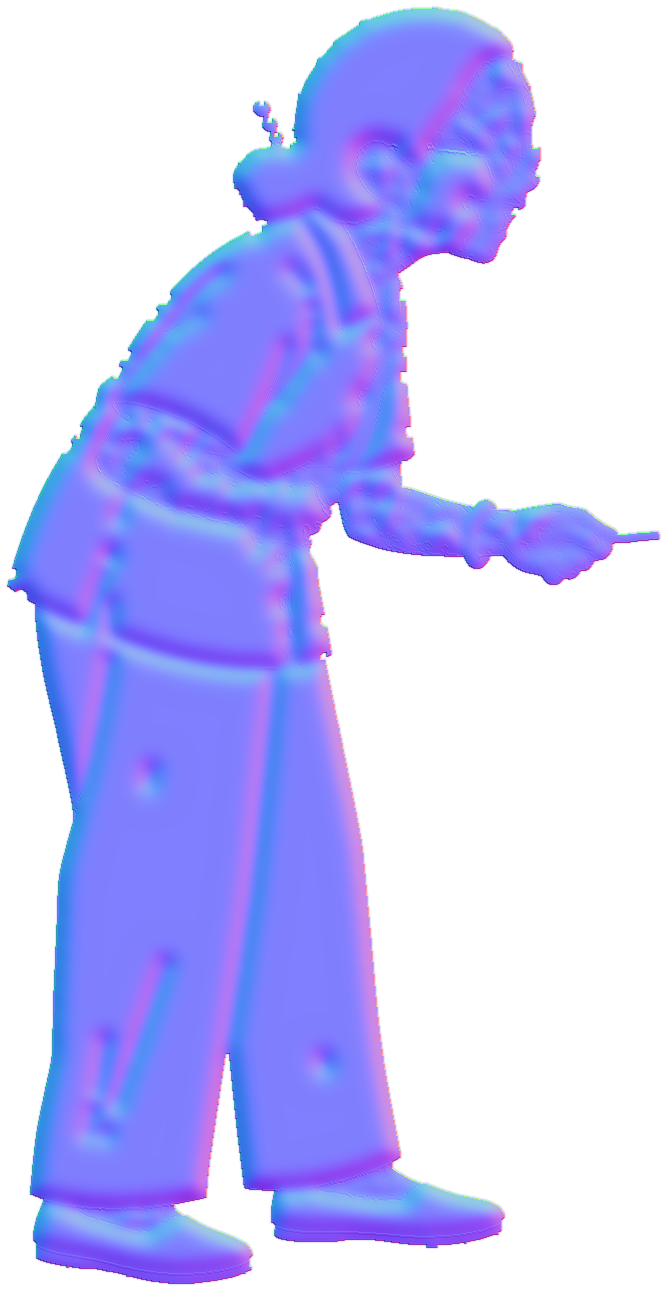
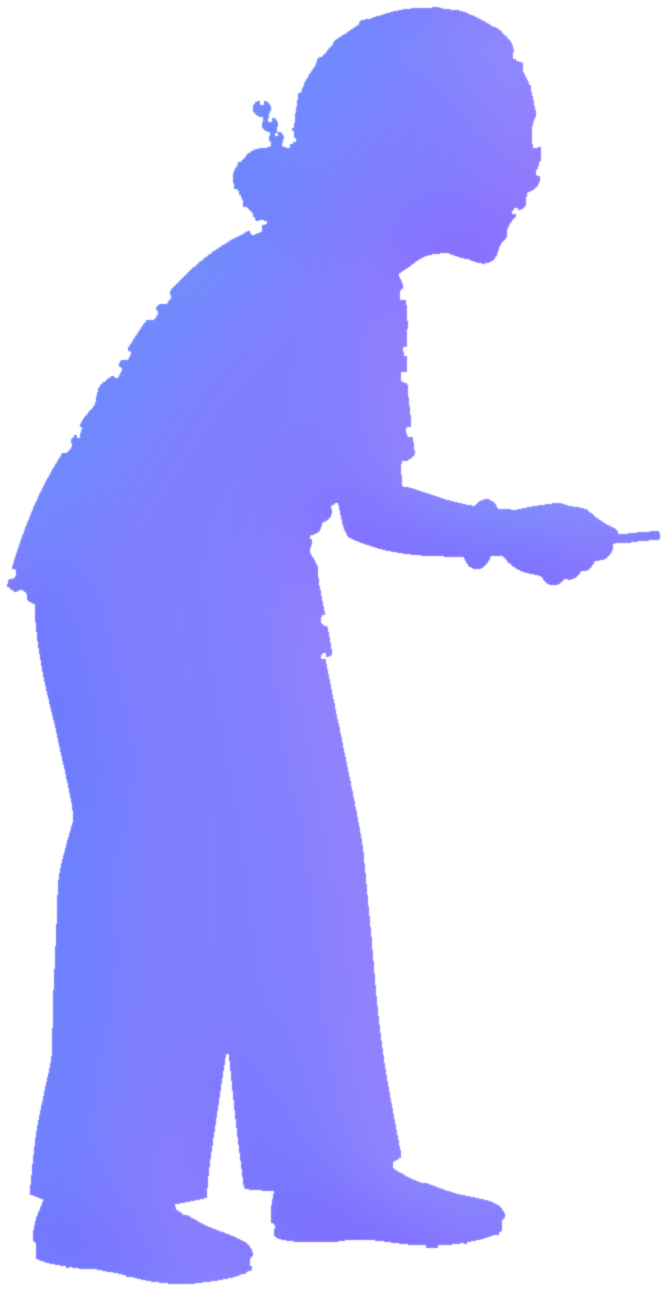
后台镜头去伪人感：整身软法线、马灯包裹光、雾减半
S20/S24 里小满和奶奶被后台马灯近距离硬光一打，按区域切的法线显出一节一节的
浮雕和很黑的眼窝。改为 tools/card_soft.py 生成的整身软法线（最大倾角约 8°），
lampEcard 加 wrap，shot.fog 支持单镜头调雾（后台两镜 0.5）。

Claude-Session: https://claude.ai/code/session_018izVeBsCAWYGJUmZwpX2YC

diff --git a/js/lamp/s06_key.js b/js/lamp/s06_key.js
@@ -217,7 +217,7 @@ export async function renderShot(ctx, t, W, H, shot) {
   gl.draw('scene', tScene, U, { uSheet: gl.texs.sheet, uSheet2: img2 ? gl.texs.sheet2 : gl.texs.sheet, uQuiltL: gl.texs.qL, uQuiltR: gl.texs.qR, uAlb: gl.texs.alb, uNrm: gl.texs.nrm, uMat: gl.texs.mat });
   const fw = Math.round(W / 4), fh = Math.round(H / 4);
   const tFog = gl.target('fog', fw, fh);
-  gl.draw('fog', tFog, { ...U, uSigma: 0.16 * (DEBUG.fog ?? 1) }, { uScene: tScene });
+  gl.draw('fog', tFog, { ...U, uSigma: 0.16 * (DEBUG.fog ?? shot.fog ?? 1) }, { uScene: tScene });
   const tComb = gl.target('comb', W, H);
   gl.draw('combine', tComb, { uFogRes: [fw, fh], uExt: 0.03 }, { uScene: tScene, uFog: tFog, uDust: gl.texs.dust });
   // 泛光

diff --git a/js/lamp/shaders.js b/js/lamp/shaders.js
@@ -122,7 +122,7 @@ vec3 lampEcard(vec3 P, vec3 N) {
   vec3 d = uLamp - P; float r2 = dot(d, d); vec3 l = d * inversesqrt(r2);
   vec3 cn = -uFwd; float k = 1.0;
   if (dot(l, cn) < 0.0) { l = normalize(l - 2.0 * dot(l, cn) * cn); k = 0.85; }
-  float c = max(0.0, dot(N, l));
+  float c = max(0.0, (dot(N, l) + 0.5) / 1.5);   // 包裹一点：后台马灯离人很近，纯朗伯的明暗太硬，画上已有的明暗会被叠出一块一块
   return LAMP_RGB * uLampI * k * c / r2 * beamsVis(P, uLamp);
 }
 // ---------------- 床单这块面光源对 P 的照度（只照看戏的这边）

diff --git a/js/lamp/shots/s20.js b/js/lamp/shots/s20.js
@@ -60,6 +60,7 @@ function grips(t, cam) {
 const shot = {
   cam: CAM20,
   exp: 0.26,
+  fog: 0.5,                                            // 后台的雾减半：人离镜头近，雾太浓会发灰发闷
   sheet: (t, env) => {
     TURTLE ||= makeTurtle();
     const T = turtleState(t), C = craneState(t);

diff --git a/js/lamp/shots/s24.js b/js/lamp/shots/s24.js
@@ -14,6 +14,7 @@ let MAP = null;
 const shot = {
   cam: CAM,
   exp: 0.22,
+  fog: 0.5,
   sheet: (t, env) => sheet23(3.4 + 0.1 * t, env),
   cards: async (CARDS, cam, t) => {
     MAP ||= await loadMaps(SM.file);

diff --git a/tools/card_soft.py b/tools/card_soft.py
@@ -1,0 +1,21 @@
+# 柔和的整体法线：把整个人的轮廓（透明度）大幅模糊后求梯度，只给"整个人一点点圆"，不按身体部位分块。
+# 用在离马灯很近、侧光很硬的镜头（后台），避免画上已有的明暗再被法线叠一遍、一节一节地鼓起来。
+# 用法：python3 -I tools/card_soft.py 透明底.png 法线.png [模糊半径像素=45] [强度=0.35]
+import sys
+import numpy as np
+from PIL import Image
+from scipy import ndimage as ndi
+src, out = sys.argv[1], sys.argv[2]
+sig = float(sys.argv[3]) if len(sys.argv) > 3 else 45.0
+k = float(sys.argv[4]) if len(sys.argv) > 4 else 0.35
+a = np.array(Image.open(src).convert('RGBA'))[..., 3].astype(np.float32) / 255
+h = ndi.gaussian_filter(a, sig)
+gy, gx = np.gradient(h)
+s = k * sig
+nx, ny, nz = -gx * s, gy * s, np.ones_like(h)
+l = np.sqrt(nx * nx + ny * ny + nz * nz)
+n = np.stack([nx / l, ny / l, nz / l], -1)
+rgb = ((n * 0.5 + 0.5) * 255).clip(0, 255).astype(np.uint8)
+alpha = (a * 255).astype(np.uint8)
+Image.fromarray(np.dstack([rgb, alpha])).save(out)
+print(out, 'max tilt %.2f' % np.degrees(np.arccos(n[..., 2].min())))
